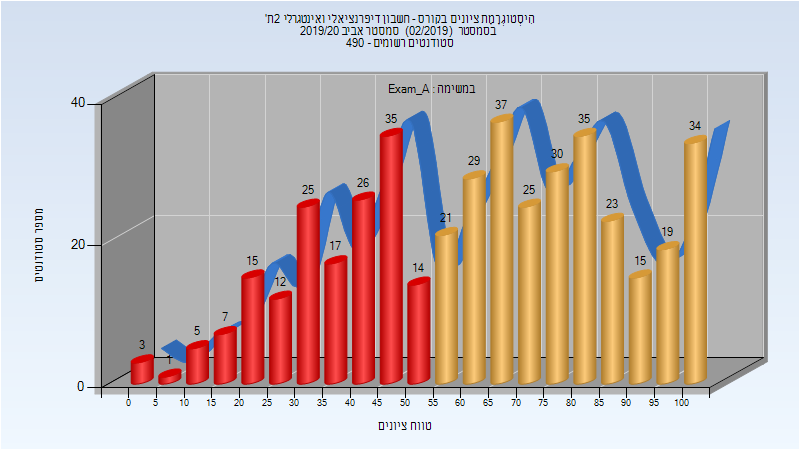
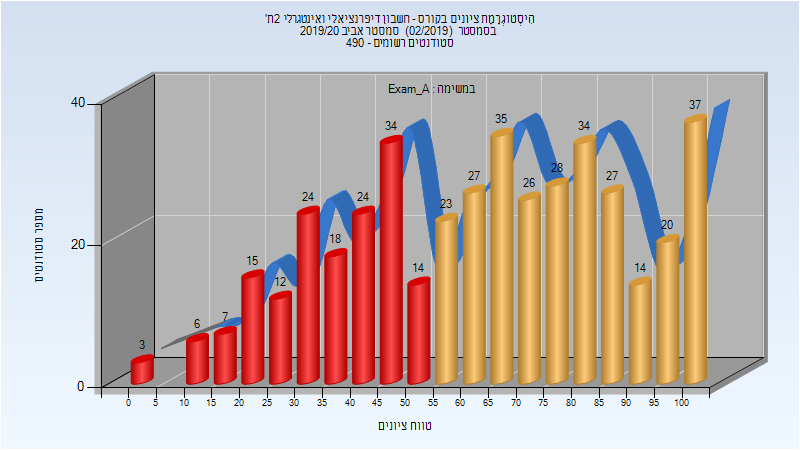
Deploy michael-maltsev/technion-histograms to github.com/michael-maltsev/technion-histograms.git:gh-pages

diff --git a/104013/index.html b/104013/index.html
@@ -1946,11 +1946,11 @@
 <tbody>
 <tr>
 <td>428</td>
-<td>268/160</td>
+<td>271/157</td>
 <td>63</td>
 <td>0</td>
 <td>100</td>
-<td>62.701</td>
+<td>63.326</td>
 <td>65</td>
 </tr>
 </tbody>
@@ -1972,12 +1972,12 @@
 <tbody>
 <tr>
 <td>428</td>
-<td>343/85</td>
-<td>80</td>
+<td>345/83</td>
+<td>81</td>
 <td>5</td>
 <td>100</td>
-<td>71.589</td>
-<td>76.5</td>
+<td>72.112</td>
+<td>77</td>
 </tr>
 </tbody>
 </table>

diff --git a/104013/README.md b/104013/README.md
@@ -614,7 +614,7 @@
 
 | סטודנטים | עברו/נכשלו | אחוז עוברים | ציון מינימלי | ציון מקסימלי | ממוצע | חציון |
 | ---- | ---- | ---- | ---- | ---- | ---- | ---- |
-| 428 | 268/160 | 63 | 0 | 100 | 62.701 | 65 |
+| 428 | 271/157 | 63 | 0 | 100 | 63.326 | 65 |
 
 ### סופי מועד א'
 
@@ -622,5 +622,5 @@
 
 | סטודנטים | עברו/נכשלו | אחוז עוברים | ציון מינימלי | ציון מקסימלי | ממוצע | חציון |
 | ---- | ---- | ---- | ---- | ---- | ---- | ---- |
-| 428 | 343/85 | 80 | 5 | 100 | 71.589 | 76.5 |
+| 428 | 345/83 | 81 | 5 | 100 | 72.112 | 77 |
 
